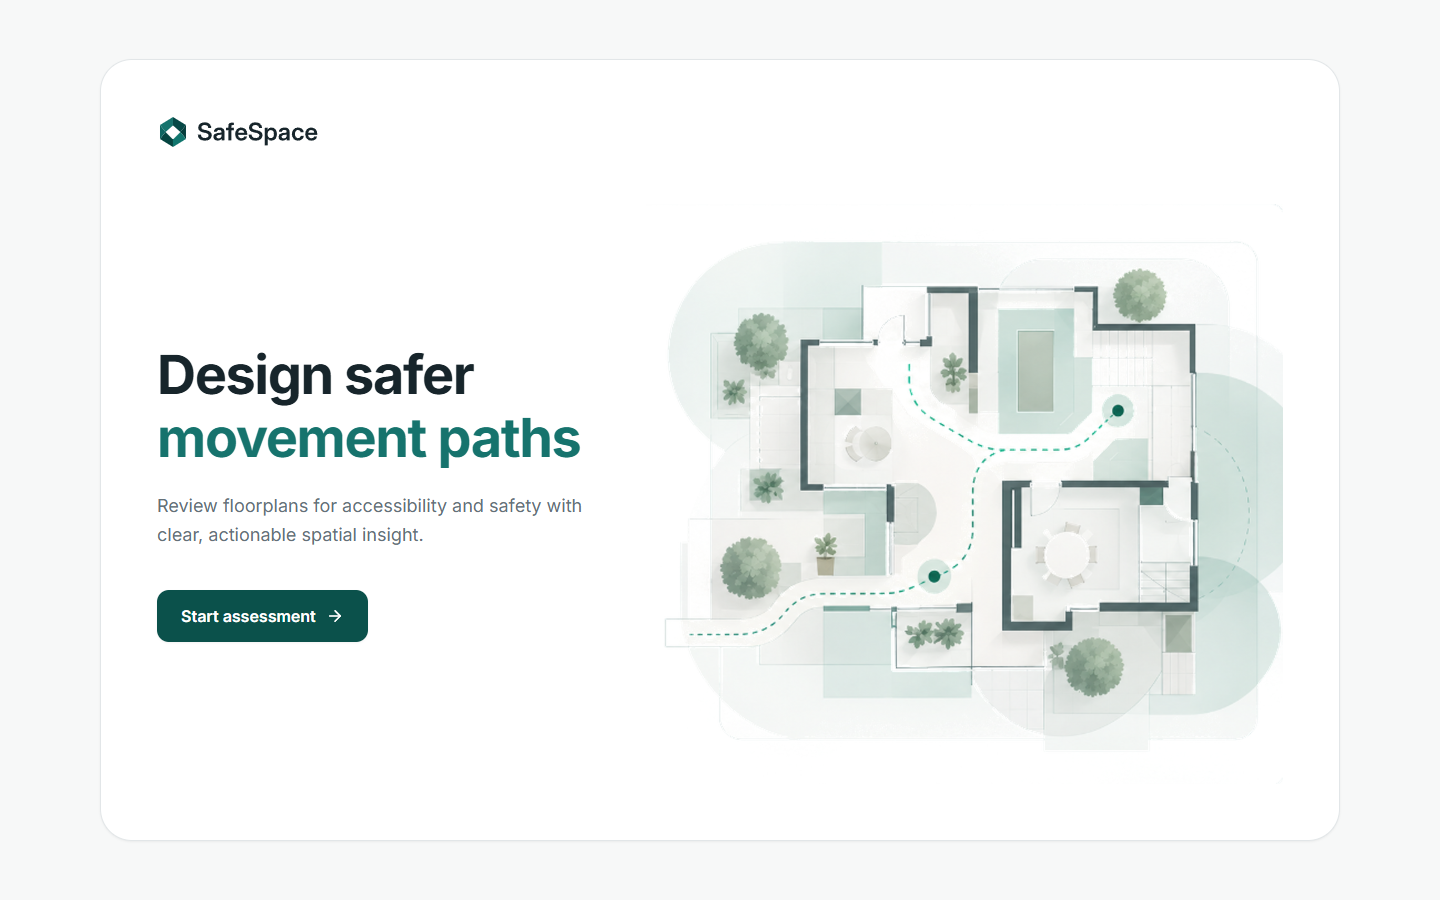
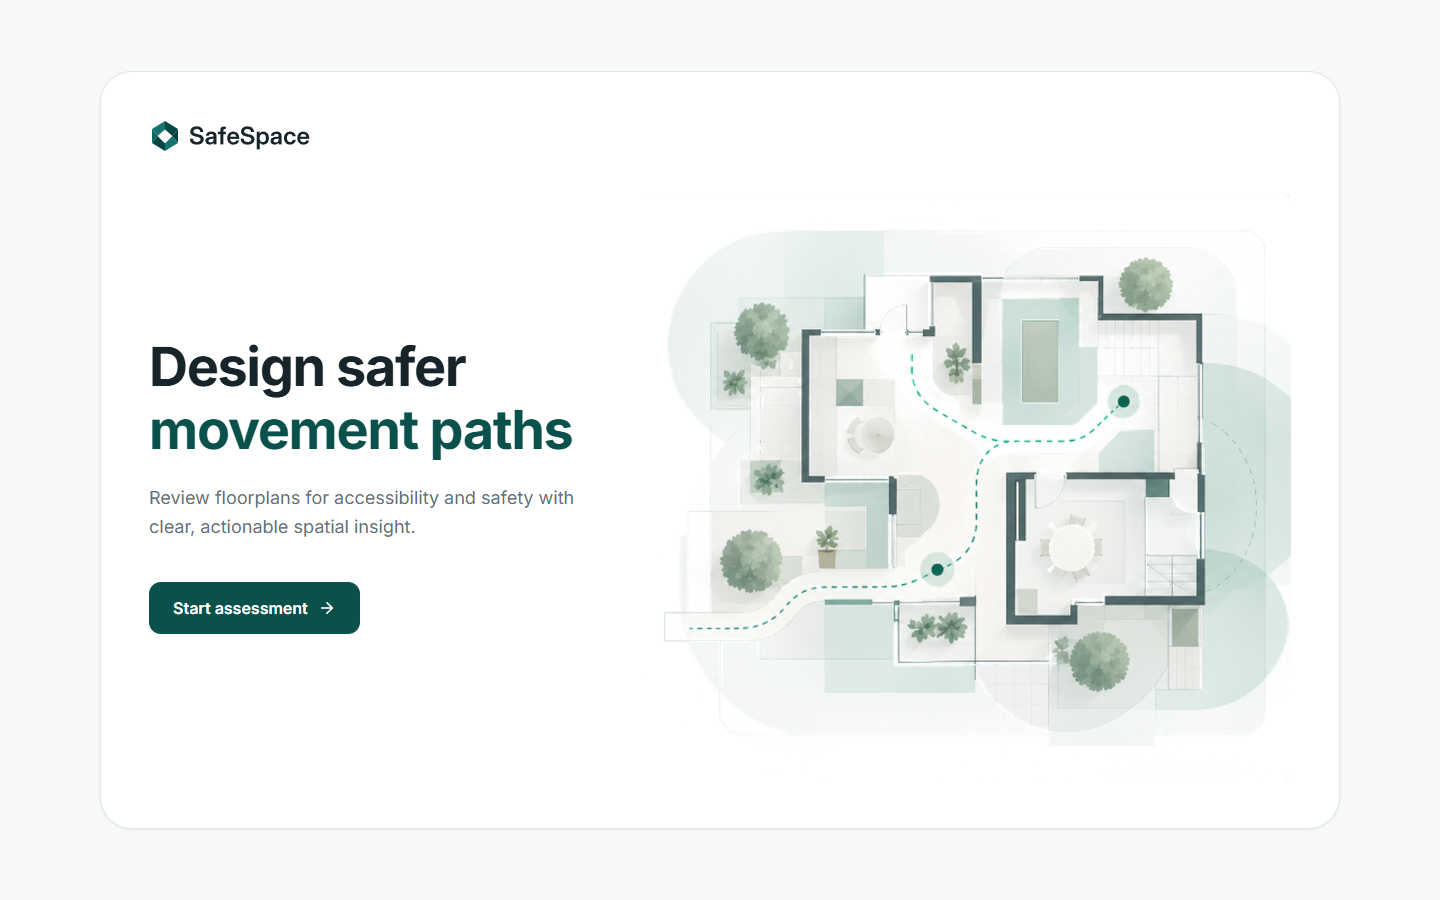
fix(landing): harden responsive headline scaling, unify design tokens, and verify 5 viewports

diff --git a/src/app/page.tsx b/src/app/page.tsx
@@ -6,10 +6,10 @@ import abstractFloorplan from "../../public/landing/abstract-floorplan@2x.png";
 
 export default function HomePage() {
   return (
-    <div className="min-h-screen bg-[#F7F8F8] text-[#17252B] flex items-center justify-center p-4 sm:p-6 lg:p-10">
+    <div className="min-h-screen bg-[#F7F8F8] text-[#17252B] flex items-center justify-center p-3 sm:p-6 lg:p-10">
       <main
         id="main-content"
-        className="relative w-full max-w-[1240px] rounded-[24px] sm:rounded-[32px] border border-[#E2E6E8] bg-white p-6 sm:p-10 lg:p-14 shadow-xs"
+        className="relative w-full max-w-[1240px] rounded-[24px] sm:rounded-[32px] border border-[#E2E6E8] bg-white p-6 sm:p-8 lg:p-10 xl:p-12 shadow-xs"
         role="main"
       >
         {/* Brand Logo & Wordmark - Top Left */}
@@ -27,19 +27,19 @@ export default function HomePage() {
         {/* Hero Section */}
         <section
           aria-labelledby="hero-title"
-          className="mt-8 sm:mt-12 lg:mt-14 grid grid-cols-1 items-center gap-8 lg:grid-cols-12 lg:gap-12"
+          className="mt-6 sm:mt-8 lg:mt-8 xl:mt-10 grid grid-cols-1 items-center gap-8 lg:grid-cols-12 lg:gap-8 xl:gap-12"
         >
           {/* Left Hero Content: Headline, Description & Single CTA */}
-          <div className="lg:col-span-5 flex flex-col items-start z-10">
+          <div className="lg:col-span-6 xl:col-span-5 flex flex-col items-start z-10">
             <h1
               id="hero-title"
-              className="text-4xl sm:text-5xl lg:text-[54px] font-bold tracking-tight leading-[1.08]"
+              className="text-3xl sm:text-5xl lg:text-4xl xl:text-[54px] font-bold tracking-tight leading-[1.08]"
             >
               <span className="block text-[#17252B]">Design safer</span>
-              <span className="block text-[#16736D] mt-1">movement paths</span>
+              <span className="block text-[#0B514B] mt-1 whitespace-nowrap">movement paths</span>
             </h1>
 
-            <p className="mt-5 sm:mt-6 text-base sm:text-lg leading-relaxed text-[#647078] max-w-md">
+            <p className="mt-5 sm:mt-6 text-base sm:text-lg leading-relaxed text-[#647078] max-w-[440px]">
               Review floorplans for accessibility and safety with clear, actionable spatial insight.
             </p>
 
@@ -56,7 +56,7 @@ export default function HomePage() {
           </div>
 
           {/* Right Hero Preview: Abstract Architectural Floorplan Illustration */}
-          <div className="lg:col-span-7 flex items-center justify-center lg:justify-end">
+          <div className="lg:col-span-6 xl:col-span-7 flex items-center justify-center lg:justify-end">
             <div className="relative w-full max-w-[580px] lg:max-w-none">
               <Image
                 src={abstractFloorplan}
